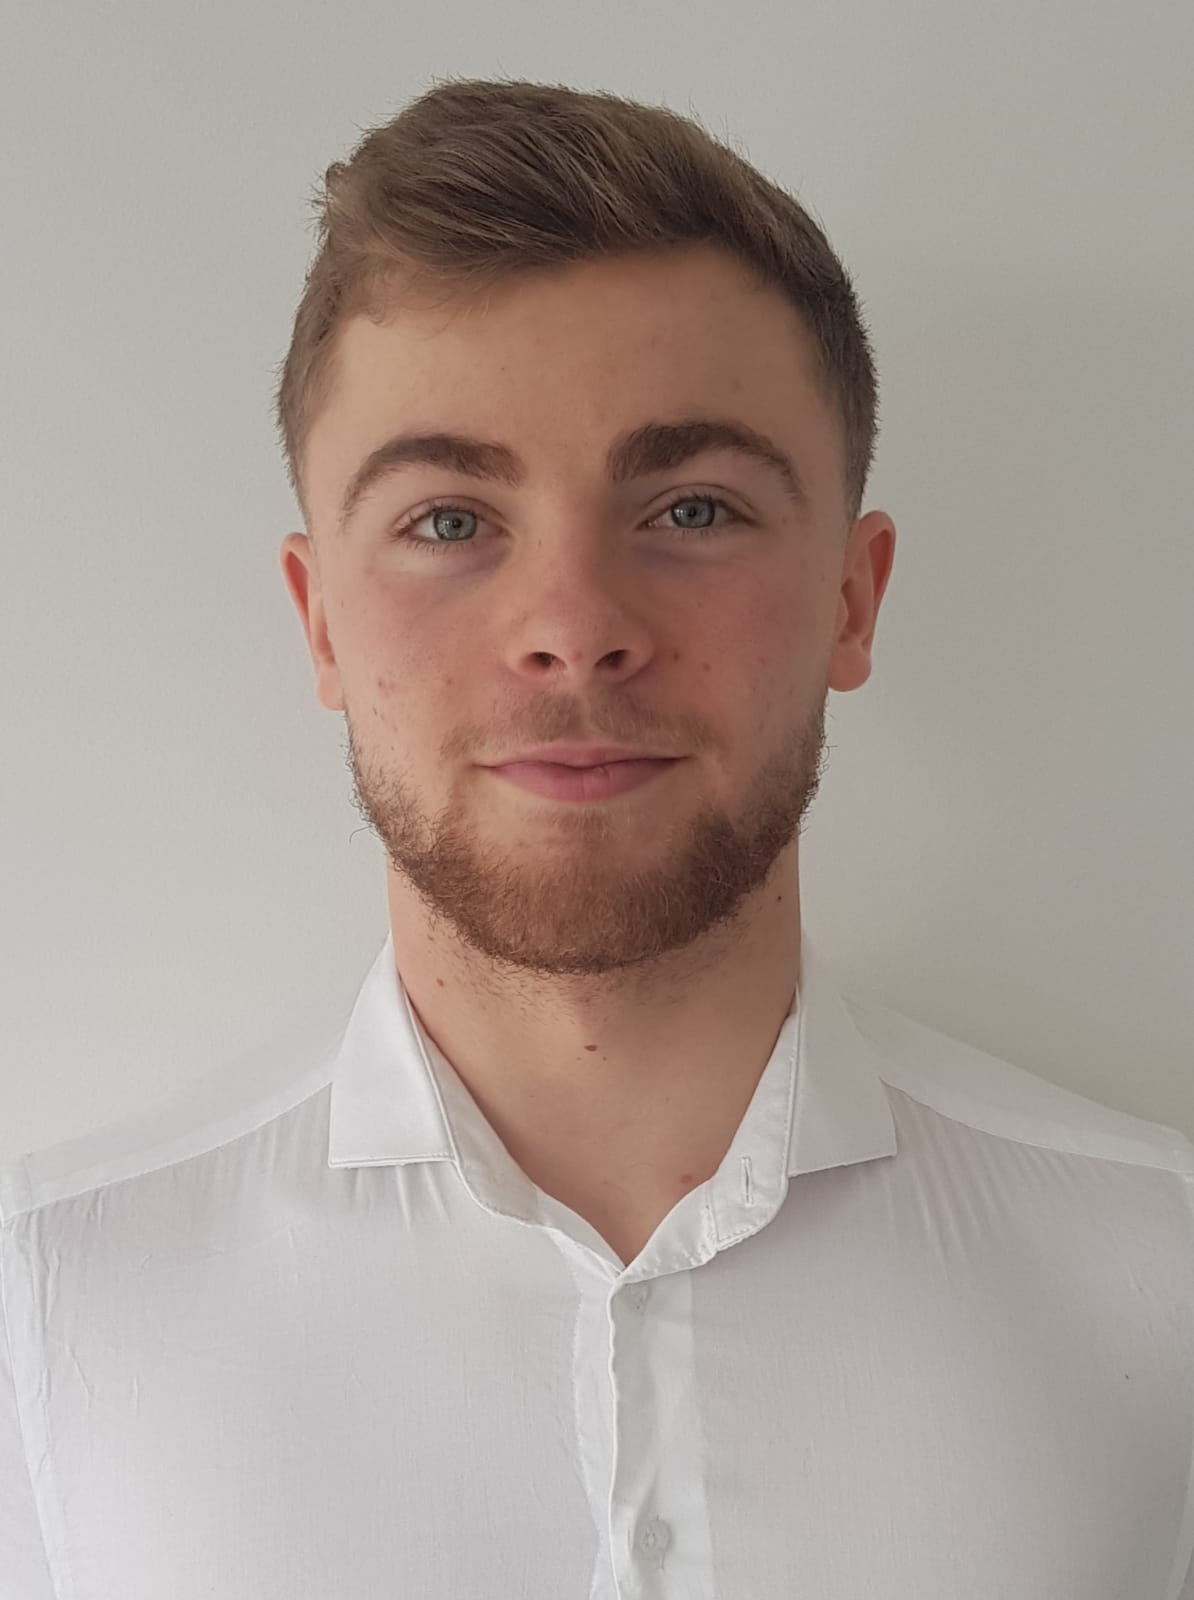
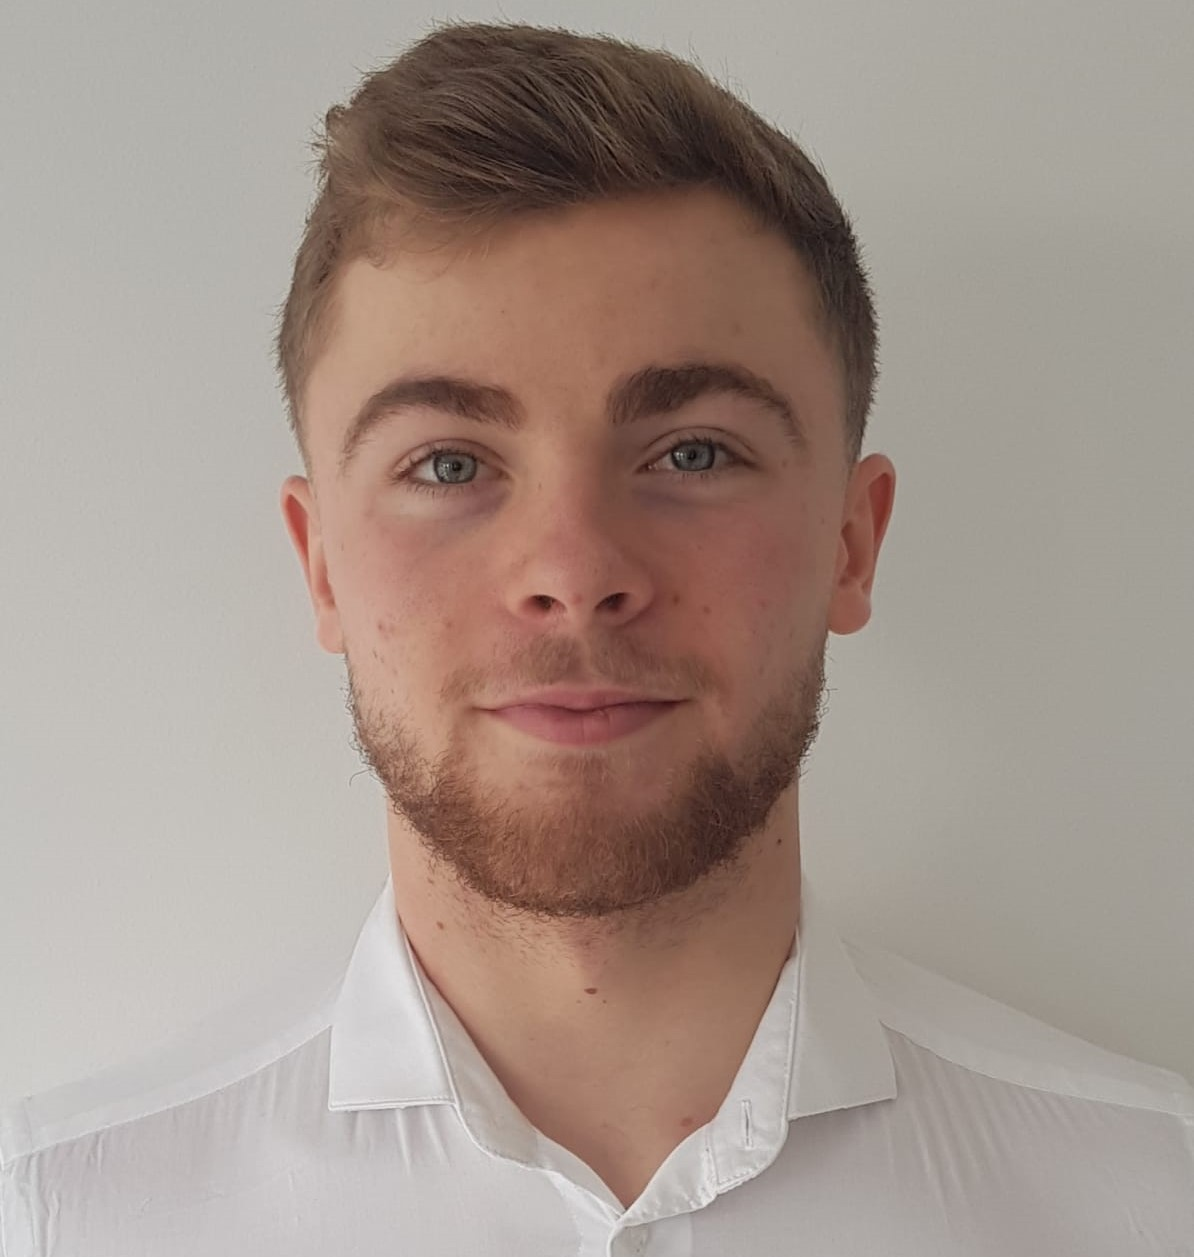
Ajout Téo Henrion dans les Membres

diff --git a/pages/membres.tsx b/pages/membres.tsx
@@ -29,7 +29,7 @@ const dataMembres = {
         name: "Téo HENRION",
         photo: "membres/teo.png",
         poste: "Manager",
-        desc: "Lorem ipsum dolor sit amet consectetur adipisicing exercitationem repudiandae nemo iure aperiam!",
+        desc: "Sportif de haut niveau en handball depuis plusieurs années, j'ai toujours été convaincu que le travail d'équipe était la solution pour réaliser de beaux projets, avec des valeurs communes. Je suis fier d'apporter mon énergie ainsi que mes compétences d'ingénieur conception et innovation de produit au sein de l'équipe Perfect !",
         facebook: "https://www.facebook.com/henrion.teo",
         instagram: "https://www.instagram.com/teo_hrn",
         linkedin: "https://www.linkedin.com/in/t%C3%A9o-henrion-39a9801a4"
